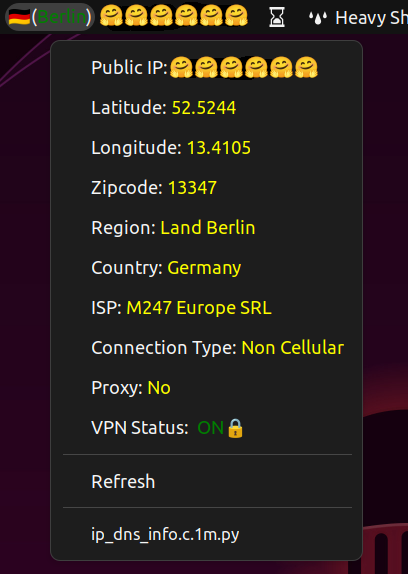
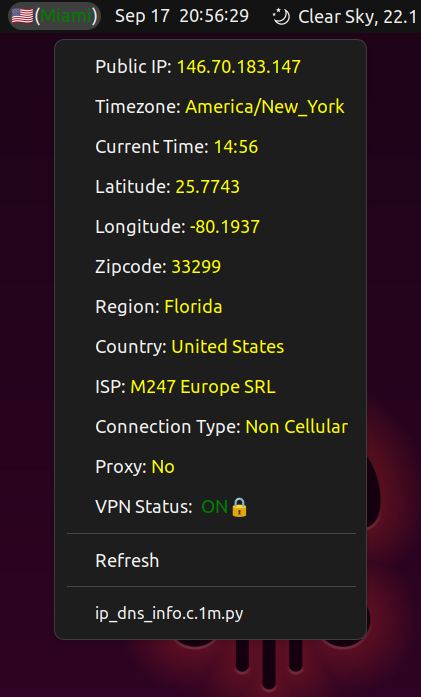
Add timezone, current time info to dropdown

Changed region(s): [[0.0, 0.0, 1.0, 1.0], [0.2059, 0.6516, 0.6176, 0.8885]]

diff --git a/ip_dns_info.c.1m.py b/ip_dns_info.c.1m.py
@@ -2,11 +2,11 @@
 
 __author__ = "Venkata Kolagotla"
 __created__ = "2023-08-24 19:16"
-__last_updated__ = "2023-08-25 12:44"
+__last_updated__ = "2023-09-17 20:44"
 __copyright__ = "Copyright 2023"
 __credits__ = ["Venkata Kolagotla"]
 __license__ = "Apache License, Version 2.0"
-__version__ = "0.1.0"
+__version__ = "0.2.0"
 __maintainer__ = "Venkata Kolagotla"
 __email__ = "vkolagotla@pm.me"
 __status__ = "Development"
@@ -14,9 +14,12 @@ __description__ = "Get external IP address and details"
 __usage__ = "Place the script at ~/.config/argos/ with name extip.1m.py"
 
 
+import datetime
 import requests
 import subprocess
 from typing import Dict, Optional
+
+import pytz
 
 # Dictionary of all country codes and respective flag emojis
 country_flags: Dict[str, str] = {
@@ -269,6 +272,23 @@ def is_vpn_active() -> bool:
         return any(line.startswith("vpn:") for line in output.splitlines())
     except subprocess.CalledProcessError:
         return False
+    
+
+def get_current_time(timezone: str) -> str:
+    """Get current time based on timezone.
+
+    Parameters
+    ----------
+    timezone: str
+        Timezone as a string.
+
+    Returns
+    -------
+    str: Current time as a string.
+    """
+    tz = pytz.timezone(timezone)
+    current_time = datetime.datetime.now(tz)
+    return current_time.strftime("%H:%M")
 
 
 def main() -> None:
@@ -284,6 +304,8 @@ def main() -> None:
 
     country_code: str = ip_details.get("countryCode", "")
     city: str = ip_details.get("city", "")
+    timezone: str = ip_details.get("timezone", "")
+    current_time: str = get_current_time(timezone)
     lat: float = ip_details.get("lat", "")
     lon: float = ip_details.get("lon", "")
     zip_code: str = ip_details.get("zip", "")
@@ -318,6 +340,8 @@ def main() -> None:
     print(f"{flag_emoji}({city_color}{city}{reset_color})")
     print("---")
     print(f"Public IP: {reset_color}\033[33m{ip_address}\033[0m")
+    print(f"Timezone: {reset_color}\033[33m{timezone}\033[0m")
+    print(f"Current Time: {reset_color}\033[33m{current_time}\033[0m")
     print(f"Latitude: {reset_color}\033[33m{lat}\033[0m")
     print(f"Longitude: {reset_color}\033[33m{lon}\033[0m")
     print(f"Zipcode: {reset_color}\033[33m{zip_code}\033[0m")

diff --git a/README.md b/README.md
@@ -8,7 +8,7 @@
 
 ### Installation
 
-1. Obviously you need python and [Argos](https://github.com/Coda-Coda/argos.git) (recommended for all gnome versions) / [Argos](https://github.com/rammie/argos/tree/gnome-3.36) (gnome-3.36 branch for gnome versions <40)
+1. Obviously you need python and [Argos](https://github.com/Coda-Coda/argos.git) (recommended for all gnome versions) / [Argos](https://github.com/rammie/argos/tree/gnome-3.36) (gnome-3.36 branch for gnome versions <40) and python pytz module if its not installed via `pip install pytz`
 2. Copy the script to `~/.config/argos/` directory.
 3. Make the script executable by running `chmod +x ip_dns_info.c.1m.py`.
 4. Refresh GNOME extensions by pressing `Alt+F2` and typing `r` and pressing `Enter`.
@@ -18,15 +18,17 @@
 The script should just display the IP and DNS details in the top bar of GNOME desktop with a Country Flag emoji and the city name. If the city name is in green color, it means your system is connected to a VPN. If the city name is in red color, it means your system is not connected to a VPN. You can click on the city name to see the IP and DNS details in a drop down window. Which shows following details:
 
 1. IP Address
-2. Latitude
-3. Longitude
-4. Zip Code
-5. Region(Usually state)
-6. Country
-7. ISP(Internet Service Provider)
-8. Connection Type(Cellular or Non-Cellular)
-9. Proxy(Yes or No)
-10. VPN Status(ON or OFF)
+2. Timezone
+3. Current Time
+4. Latitude
+5. Longitude
+6. Zip Code
+7. Region(Usually state)
+8. Country
+9. ISP(Internet Service Provider)
+10. Connection Type(Cellular or Non-Cellular)
+11. Proxy(Yes or No)
+12. VPN Status(ON or OFF)
 
 <p align="center">
 <img src="src/screenshot.png" alt="Screenshot of the plugin" width="50%">
@@ -43,4 +45,4 @@ There is a limit of 45 requests per minute. If you exceed this limit, you will g
 The code is licensed under **Apache License 2.0.** The API does not require any authentication and is free to use for non-commercial use.
 
 ### TODO:
-- [ ] Fix Refresh in the Drop down.
+- [x] Fix Refresh in the Drop down.
